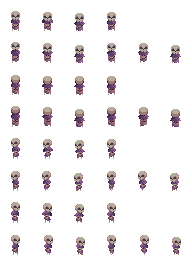
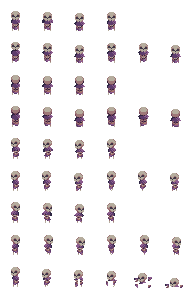
death for archer

diff --git a/public/js/scenes/scene.preloader.js b/public/js/scenes/scene.preloader.js
@@ -129,6 +129,12 @@ var sceneConfigPreloader = {
             repeat: -1
         });
         this.anims.create({
+            key: 'archer_dead',
+            frames: this.anims.generateFrameNumbers('archer', { start: 48, end: 53}),
+            frameRate: 5,
+            repeat: 0
+        });
+        this.anims.create({
             key: 'skeleton_idle_down',
             frames: this.anims.generateFrameNumbers('skeleton', { start: 0, end: 3}),
             frameRate: 8,
